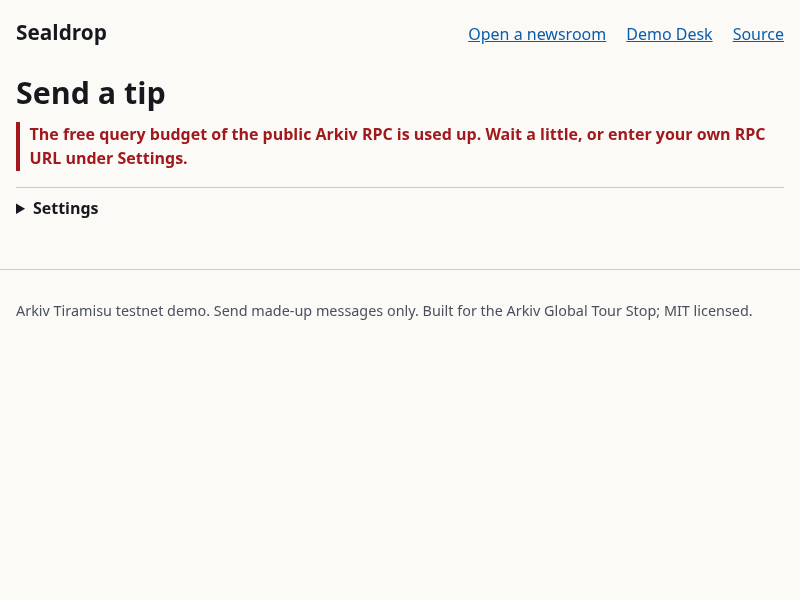
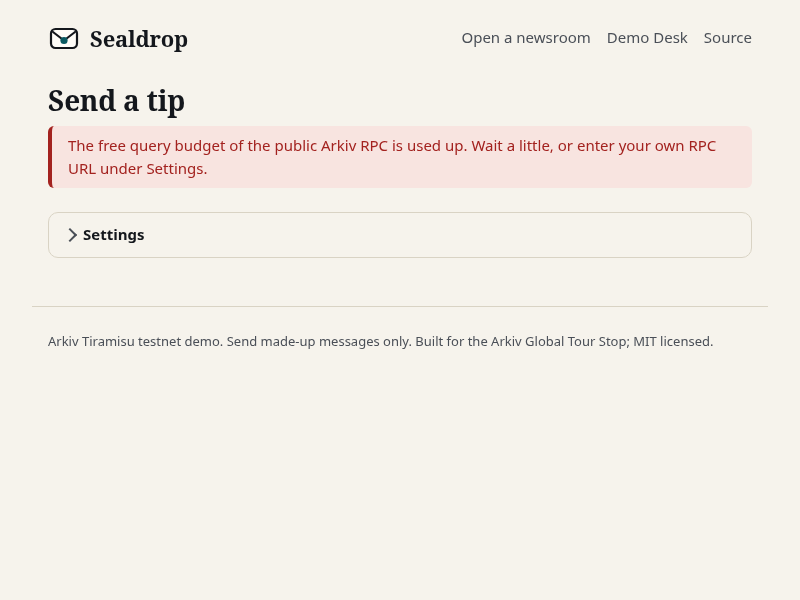
Design stage results: after screens, comparisons, audit logs, docs
- evidence/screens/design-after/ and design-before/: 72 PNGs each (18 states, including the over-limit state), plus 4 compare-*.png and 4 refreshed live-run screens
- evidence/design.md: contrast ratios, UI words changed, decisions, results (gate, smoke, Firefox, keyboard, bundle +5,743 B gzip), NOT VERIFIED list
- evidence/design-logs/: gate, Firefox, keyboard, QA tour, accessibility and contrast outputs
- evidence/design-scripts/shoot.mjs: state 18 (message over the size limit)
- README.md, evidence/qa.md, smoke.txt, smoke-subpath.txt: refreshed to the final runs

diff --git a/evidence/design.md b/evidence/design.md
@@ -86,7 +86,7 @@ Weights: 400 body, 600 labels and buttons, 700 headlines. Hex and byte counts us
 5. Verified facts get a teal "verified" chip (`Creator verified ✓`). Warnings and destructive controls use danger only.
 6. Headlines serif, UI sans, data mono. No more than three type sizes in any card.
 7. Cards never nest. Secondary blocks ("Got an inbox link?", the world panel, settings) are plain bordered blocks with muted headings.
-8. Keep every testid and structural selector used by `scripts/smoke.mts`, `evidence/qa-scripts/*`: see "Markup contract".
+8. Keep every testid and structural selector used by `scripts/smoke.ts`, `evidence/qa-scripts/*`: see "Markup contract".
 
 ## Components
 
@@ -111,23 +111,128 @@ Weights: 400 body, 600 labels and buttons, 700 headlines. Hex and byte counts us
 ## Markup contract (kept, so the smoke and QA scripts need no assertion changes)
 
 testids: message, send, tip-text, tip, inbox, create-inbox, live-status, send-result, status, create-newsroom, inbox-link, mode-wallet, mode-demo, route-notice, open-newsroom, open-desk, progress, export, renew, use-wallet, counter, balance, refresh, no-tips, tips, budget, inbox-name, inbox-desc.
-Structure: `.me dd a` (full address as textContent), `[data-testid=send-result] dd a` (0 = Tip entity, 1 = Transaction), the first `.result button` is "Send another", `button.danger`, `details.settings > summary`, `[role=alert], .status.error`, exactly one `a.button` on home, `main`, `h1` containing "anonymous tip line". Text: `Live: listening…` / `Reconnecting…` / `No tips yet.` / `free query budget` / `no demo sender key` / `No browser wallet found.` stay verbatim.
+Structure: `.me dd a` (full address as textContent), `[data-testid=send-result] dd a` (0 = Tip entity, 1 = Transaction), the first `.result button` is "Send another", `button.danger`, `details.settings > summary`, `[role=alert], .status.error`, exactly one `a.button` on home, `main`, `h1` containing "anonymous tip line". Text: `Live: listening…` / `Reconnecting…` (the chip word, then the sentence; the colon stays in the text for readers and scripts but is not drawn) / `No tips yet.` (the status line after a sweep; the empty-state card has new words, see "UI words changed") / `free query budget` / `no demo sender key` / `No browser wallet found.` stay verbatim.
 
 ## Contrast
 
-PLACEHOLDER-CONTRAST
+Token pairs, computed from the real `src/style.css` by `node evidence/design-scripts/contrast.mjs` (WCAG 2.x relative luminance; the script exits 1 if a pair is under its threshold or if the token block above drifts from the CSS; five pairs were also re-checked with a separate formula). Text needs 4.5:1; control borders, the focus ring and bar fills need 3:1. Every pair passes in both themes.
+
+| Pair | Used for | Light | Dark | Needs | Result |
+|---|---|---|---|---|---|
+| ink on paper | body text on the page | 16.21 | 15.86 | 4.5 | pass |
+| ink on surface | text in cards, inputs | 17.67 | 14.66 | 4.5 | pass |
+| ink on surface-2 | hex values, code | 14.94 | 13.30 | 4.5 | pass |
+| muted on paper | hints, labels, footer | 7.44 | 8.37 | 4.5 | pass |
+| muted on surface | hints in cards | 8.11 | 7.73 | 4.5 | pass |
+| muted on surface-2 | hints on inset areas | 6.86 | 7.01 | 4.5 | pass |
+| accent on paper | links, secondary buttons | 7.15 | 9.30 | 4.5 | pass |
+| accent on surface | links and buttons in cards | 7.80 | 8.59 | 4.5 | pass |
+| accent-hover on paper | link hover | 9.92 | 11.25 | 4.5 | pass |
+| accent-hover on surface | link hover in cards | 10.82 | 10.39 | 4.5 | pass |
+| accent on accent-soft | Live / verified chips | 6.46 | 7.44 | 4.5 | pass |
+| accent-fg on accent | primary button | 7.93 | 8.88 | 4.5 | pass |
+| accent-fg on accent-hover | primary button hover | 11.00 | 10.75 | 4.5 | pass |
+| danger on paper | warnings, destructive text | 6.75 | 9.62 | 4.5 | pass |
+| danger on surface | warnings in cards | 7.36 | 8.88 | 4.5 | pass |
+| danger on danger-soft | error status line, warn chip | 6.12 | 8.47 | 4.5 | pass |
+| line-strong on paper | control borders against the page | 3.57 | 4.31 | 3 | pass |
+| line-strong on surface | control borders against the field | 3.89 | 3.99 | 3 | pass |
+| focus on paper | focus ring on the page | 7.15 | 9.30 | 3 | pass |
+| focus on surface | focus ring in cards | 7.80 | 8.59 | 3 | pass |
+| accent on track | bar fill against its track | 5.79 | 6.41 | 3 | pass |
+
+Rendered check (not only tokens): `A11Y=1 node evidence/design-scripts/shoot.mjs <mock dist> <out dir>` reads the computed colour of every visible text element in all 18 states, in both themes, over its real background. 764 text elements per theme; lowest ratio 6.12 in light (the error status line on its pink ground) and 6.70 in dark (a hint in the send form); 0 below 4.5. The flow diagram's text is ink and muted on surface (17.67 / 8.11 light, 14.66 / 7.73 dark); its outlines use line-strong or accent, its arrows muted. Not measured: disabled buttons (WCAG exempts them; they exist only while a send is running) and Windows forced-colors mode.
+
+## Keyboard, focus, labels, language, titles
+
+- Focus: a 3 px ring (`outline: 3px solid var(--focus); outline-offset: 2px`) on every link, button, input and summary; ring contrast is in the table above. The audit (`auditPage` from the QA scripts, desktop, light) found 0 Tab stops without a ring and 0 unlabeled or unnamed fields in all 18 states. A heading that receives focus from script (the success heading after a send) is not a Tab stop and shows no ring.
+- Page language and titles: `lang="en"` on every page; titles `Sealdrop: an anonymous tip line with no server`, `Newsroom console: Sealdrop`, `Send a tip: Sealdrop`; exactly one `h1` and one `main` per state.
+- Keyboard path through the 60-second flow, `node evidence/design-scripts/keyboard.mjs <mock dist> chromium|firefox` (mock-backed, production CSP, 0 RPC; ALL PASS in Chromium and in Firefox):
+  1. Home: "Start: open a newsroom" is the 5th Tab stop (brand, three nav links, Start); Enter opens the newsroom page.
+  2. After the page change the first Tab lands in the page content ("Create a throwaway newsroom"), not back in the header (the browsers keep the sequential focus position where the removed link was); Enter creates the newsroom.
+  3. "Create the inbox" is the 8th Tab stop on the console (address, "Copy newsroom address", faucet, "Export key file", "Forget this newsroom", Name, Description, then the button); Enter creates it; once the inbox exists, "Copy inbox link" is 2 Tab stops away.
+  4. Send page: the message box is the 11th Tab stop (4 header links, then the creator, owner and inbox entity values, each followed by its copy button). After typing, the next Tab stop is the lifetime group (14 days preselected); ArrowRight and ArrowLeft move it 14 to 30 to 7 days; two more Tab stops reach "Seal and send" (the "Shared demo key" radio, then the button); Enter sends.
+  5. After the send, focus moves to the heading "Sealed and sent ✓" (a screen reader announces it); the next Tab stop is "Send another"; Enter returns to the message box with focus in it.
+  6. 0 console or page errors; the bar fills set through CSSOM take effect under the production CSP (the receipt bar fills its track in both browsers).
+- Not built: a "skip to the message" shortcut on the send page (11 Tab stops before the message box). The creator, owner and entity values are the content a careful source wants to read first, so this was left as is.
 
 ## Decisions
 
 - Why the creator address is shown in full on the send page: the "Creator verified ✓" chip says the app checked the link against Arkiv, but a source may also compare the address with one the newsroom published elsewhere; truncation would remove that option. All other hex values are truncated.
 - Why `div` bars and not `<meter>`: identical result in Chromium and Firefox without vendor pseudo-elements; the bars are decorative and the text beside them is the accessible value.
 - Why a radiogroup for the tip lifetime instead of the `<select>`: four choices (1, 7, 14, 30 days) are better as visible options, and the default (14 days) stays pre-selected. It is a `div[role=radiogroup]`, not a `fieldset`, so the first `fieldset` on the page is still "Send with".
+- `src/crypto.ts` gains one exported function, `bucketFor(messageBytes)`; `pad()` now calls it and the size meter on the send page reads it, so the meter and the real padding cannot disagree. Behaviour is unchanged (the 23 unit tests pass without edits). `src/arkiv.ts`, `src/codec.ts` and `src/config.ts` are untouched.
 - Design screens were produced with a stubbed data layer (`evidence/design-scripts/`: the page code is the real build, only `src/arkiv.ts` is swapped for a fixed-data module, time is frozen, zero RPC queries). Real-network screens are regenerated by the QA smoke scripts. `src/arkiv.ts` is untouched, so every `#L` anchor in SUBMISSION.md is unchanged.
 
 ## UI words changed
 
-PLACEHOLDER-WORDS
+For the video stage: these are the words on screen after the design stage (state ids refer to `evidence/screens/design-after/<id>-<desktop|mobile>-<light|dark>.png`). Everything not listed is unchanged word for word: the visible text of all 18 states was diffed before and after (`TEXT=1 node evidence/design-scripts/shoot.mjs`), apart from the hex values, which are now shortened, and the footer line "Public RPC: this tab has made N queries ..." (an unchanged one-second timer in `src/main.ts` writes it, so a capture taken in the first second misses it). README.md, SUBMISSION.md, HANDOFF.md, `arkiv/*.md` and the video brief quote none of the changed strings (the strings they do quote, "WARNING: the owner is not the creator" and "Reconnecting", are unchanged), so none of them needed a wording edit; only the smoke timings were refreshed (see Results).
+
+| Where (state ids) | Before | After |
+|---|---|---|
+| Home (01, 02): under the headline | nothing | value line: "Sealed in the browser. Stored on Arkiv. Expires on the date the source picks." |
+| Home (01, 02): new picture | nothing | flow diagram, four boxes left to right: "Source's browser: writes and seals the tip", "Sealed box: only the newsroom's key opens it", "Arkiv: gone on the expiry date the source picks", "Newsroom's browser: opens it with its own key" (below 640 px the boxes stack with one-line captions). Screen readers get one sentence: "How a tip travels: the source's browser writes and seals it, the sealed box is stored on Arkiv until its expiry date, and the newsroom's browser opens it with its own key." |
+| Home (01, 02): last line | "Short on time? Send a made-up tip to the Demo Desk or read the source code." | same words; the two links are quiet text links; the final period is gone |
+| Console, before the inbox exists (04, 08) | "Live updates start once the inbox exists." | same words; "Live updates" is drawn as a chip |
+| Console, empty state (04, 05, 08) | "No tips yet. Open your inbox link in another tab and send one." | "Waiting for tips." and "Share your inbox link. To try it yourself, open it in another tab and send one." ("No tips yet." is still the status line after a Refresh) |
+| Console, inbox card (05 to 07) | button "Copy" | button "Copy inbox link" (filled: the one primary action once the inbox exists) |
+| Console, live feed (05, 06) | "Live: listening for new tips on a WebSocket. This page does not poll." | chip "Live" (teal, pulsing dot) followed by "listening for new tips on a WebSocket. This page does not poll." (the colon is kept for screen readers and scripts, not drawn) |
+| Console, dropped connection (07) | "Reconnecting: the live connection dropped and is being retried. Tips already on Arkiv are safe; Refresh reads the inbox now." | chip "Reconnecting" followed by "the live connection dropped and is being retried. Tips already on Arkiv are safe; Refresh reads the inbox now." |
+| Console, lease (05 to 07) | "alive for 6 d 12 h (until 2026-10-23 21:30 UTC). It expires after 7 days; opening this console renews it." with "Renew now" in the sentence | same sentence with a bar under it; the "Renew now" button sits below |
+| Console, tip card (06, 07) | "2026-10-17 09:27 UTC . 1.1 KiB sealed . deletes itself in 14 d 0 h" and a badge "owned by you" | the time; chip "1.1 KiB sealed (1 KiB bucket)"; chip "Expires in 14 d 0 h" with a bar (the chip turns red under one day); the line "owned by you" or "sender still owns it" |
+| Send page (10 to 14, 17, 18): inbox card | nothing | chip "Creator verified ✓" at the top; "(matches the link you opened)" stays under the creator address |
+| Send page (10 to 13, 17, 18): owner line | the owner address only | the owner address plus chip "Owner is the creator ✓"; the warning "WARNING: the owner is not the creator. Be careful." is unchanged (14) |
+| Send page (10, 11): size meter | "617 / 65,532 bytes . Padded to 1, 4, 16 or 64 KiB before sealing, so the length reveals little." | "617 / 65,532 bytes", chip "Padded to 1.0 KiB" (4.0, 16.0 or 64.0 KiB for longer messages) with a bar, then "Padded to 1, 4, 16 or 64 KiB before sealing, so the length reveals little." |
+| Send page, over the limit (18) | the counter "75,417 / 65,532 bytes" on one line with the static hint "Padded to 1, 4, 16 or 64 KiB before sealing, ...", nothing marks the message as too long until "Seal and send" is pressed | a red chip "Too long" beside the counter and a full bar; the hint and the refusal "The message is too long (limit 65532 bytes)." (shown on pressing "Seal and send") are unchanged |
+| Send page (10, 11): lifetime | "Delete it after" with a drop-down list (1 day, 7 days, 14 days, 30 days) | "Delete it after" with four visible choices "1 day", "7 days", "14 days", "30 days" (radio buttons, "14 days" preselected); the hint "You choose the Entity Expiration. The newsroom can burn it earlier or keep it longer." is unchanged |
+| Send page, after sending (13) | status line "Sent.", heading "Sent", "This is everything Arkiv stores about it:" with the full list, and the "Seal and send" button greyed out | one card: heading "Sealed and sent ✓" with the button "Send another"; "Your message was sealed in this browser and handed to the inbox owner. Only the newsroom's decryption key opens it." is unchanged; the receipt shows Tip entity, Transaction and Expires; "This is everything Arkiv stores about it:" with $creator, $owner, Attributes and Payload moved into a closed disclosure "What Arkiv stores"; no "Sent." line; the form is hidden until "Send another" |
+| Every page: 0x values | the full value as a blue link | shortened in the middle (`0x19E7…ff2A`: 6 leading characters, 4 trailing), mono, with a copy button; the full value is in the tooltip and the accessible name. The creator address on the send page stays complete (two lines). |
+| Header (every page) | the word "Sealdrop" | the word "Sealdrop" with a small envelope mark; the nav words "Open a newsroom", "Demo Desk", "Source" are unchanged |
+
+Unchanged on purpose (so captions can keep using them): the headlines "An anonymous tip line with no server to seize", "Newsroom console", "Tips" and "Send a tip"; the lead paragraph; the three 60-second steps and the button "Start: open a newsroom"; "Got an inbox link?"; "Create a throwaway newsroom", "Create the inbox", "Export key file", "Forget this newsroom", "Refresh (full sweep)", "Keep 30 more days", "Burn now", "Seal and send", "Send another"; the sentence "Everyone in demo mode shares one public testnet address, so it cannot identify you. ..."; "What can anyone see on Arkiv for this inbox?", "Queries this page runs", "Settings"; the footer.
 
 ## Results
 
-PLACEHOLDER-RESULTS
+Run on the final code (nothing under `src/` changed after the last gate run). Local commits only, nothing pushed. Public RPC use for the whole stage: 63 queries (6,300 units) in about 30 minutes, under the 70 queries/hour limit (ledger: smoke 10, final smoke 10, subpath smoke 10, Firefox 9, QA tour 22, unfunded-key run 2). All message text is synthetic.
+
+| Check | Result | Where |
+|---|---|---|
+| Gate: `node scripts/secret-scan.mjs && npm test && npm run build && npm run check:bundle` | exit 0: secret scan clean, 3 test files with 23 tests passed, build ok, bundle check all rules pass | `design-logs/gate.txt` |
+| Smoke, judge path, Chromium, live Tiramisu testnet | 13 PASS, 20.1 s from opening the newsroom to the decrypted live tip | `smoke.txt` |
+| Smoke served under the `/sealdrop/` subpath | 13 PASS, 19.5 s | `smoke-subpath.txt` |
+| Firefox 153, judge path, production CSP | 8 PASS, 30.6 s, 9 queries, 0 console errors | `design-logs/ff-judge.out` |
+| Mobile 390x844, DPR 2, touch, live testnet (QA tour, section C) | no horizontal overflow in 6 states; every button at least 44 px high | `design-logs/e-tour.out` |
+| QA tour on the live testnet: error states E1 to E10, a 64 KiB tip, Hebrew + emoji, injected 429, wallet declines, unfunded demo key | 21 PASS, 0 FAIL (19 in `e-tour.out`, 2 in `e-tour-e8.out`) | `design-logs/e-tour*.out` |
+| Keyboard path through the 60-second flow (`keyboard.mjs`) | ALL PASS in Chromium and in Firefox; every Tab stop shows a ring | `design-logs/keyboard-*.txt` |
+| Accessibility audit, 18 states, light desktop | `lang="en"`, one `h1`, one `main`, a title, 0 unlabeled or unnamed fields, 0 Tab stops without a ring; live testnet console with 20 tips: 121 Tab stops, 0 without a ring | `design-logs/a11y-audit.txt`, `e-tour.out` |
+| Contrast, both themes | 21 token pairs pass (table above); rendered scan of 764 text elements per theme: lowest 6.12 light, 6.70 dark, 0 below AA | `design-logs/contrast.out`, `design-logs/a11y-audit.txt` |
+| Console and page errors | 0 in every run above (the injected 429 of E9 shows up as a failed resource load in the browser log; the tour does not count that deliberate fault) | all logs |
+| New runtime dependencies | none (`package.json` and `package-lock.json` are unchanged) | `git diff` |
+
+Bundle, gzip -9 per file of `dist/` (same `.env.local`, same Vite; `design-logs/bundle-sizes.txt`):
+
+| File | Before (5f83e23) | After | Growth |
+|---|---|---|---|
+| `index.js` | 126,769 B | 129,071 B | +2,302 B |
+| `index.css` | 1,407 B | 4,492 B | +3,085 B |
+| `index.html` | 783 B | 1,140 B | +357 B |
+| `ccip.js`, `native.js` | 1,520 B | 1,519 B | -1 B |
+| Total | 130,479 B | 136,222 B | +5,743 B (4.4 %), limit 10,000 B |
+
+Screens:
+
+- `evidence/screens/design-before/` and `design-after/`: 72 PNGs each (18 states, desktop 1280x800 and mobile 390x844, light and dark), taken by `shoot.mjs` from the 5f83e23 build and from the final tree with the same stub data and zero RPC queries. For the after set the script reports 0 horizontal overflows and 0 console errors in all 72 captures. State 18 (`18-send-toolong`) is the only state over the size limit.
+- `evidence/screens/compare-home.png`, `compare-newsroom-tips.png`, `compare-send-typed.png`, `compare-send-sent.png`: four side-by-side images, before on the left, after on the right.
+- Refreshed from the live smoke run: `demo-desk-sent.png`, `newsroom-live-tip.png`, `rate-limited-send.png`, `source-sent.png`.
+- Not refreshed: the other live-testnet screens from the QA stage (`desktop-*`, `mobile-*`, `home-before-*`, `home-after-*`, `hebrew-rtl-before-after.png`, `wallet-*`) show the earlier design; `evidence/qa.md` cites them as QA evidence. This stage's live-testnet tour screens stayed in scratch space.
+
+Documents: `README.md` (the smoke paragraph now quotes the 20.1 s run in `smoke.txt`) and `evidence/qa.md` (two parentheticals and one note saying that the smoke files hold the design-stage re-runs) are tracked. `HANDOFF.md` and `SUBMISSION.md` are gitignored and were edited in place (smoke timings only). No claim in README.md, SUBMISSION.md or the video brief quotes a changed UI word (see "UI words changed").
+
+Reproduce: `bash evidence/design-scripts/build-mock.sh HEAD|worktree <out>` builds the stub-backed app; `node evidence/design-scripts/shoot.mjs <dist> <out> [ids]` takes the screens (`A11Y=1` adds the label, focus-ring and rendered-contrast audit, `TEXT=1` writes the visible words); `node evidence/design-scripts/keyboard.mjs <dist> chromium|firefox`; `node evidence/design-scripts/contrast.mjs` (exits 1 on a failing pair or when the token block above drifts from `src/style.css`).
+
+NOT VERIFIED:
+
+- Motion (the pulsing dot on "Live", bar and chip transitions) was not watched in a recording. Every screenshot is taken with `prefers-reduced-motion: reduce`; the motion lives in one reduced-motion block and short (120 and 200 ms) transitions in `src/style.css`.
+- No screen reader was run. Labels, accessible names, headings, `lang`, titles and the flow diagram's `role="img"` text were checked programmatically only.
+- Safari and WebKit, Windows forced-colors mode and a real phone were not tested; "mobile" is Chromium emulation (390x844, DPR 2, touch). Firefox was tested on desktop only.
+- Contrast of disabled buttons (WCAG exempts them).

diff --git a/evidence/qa.md b/evidence/qa.md
@@ -114,7 +114,7 @@ for `sealdrop`, `vitest` 5.0.5, `puppeteer-core` 25.14.0 and `@puppeteer/browser
   the WebSocket (`data-source=live`), wallet mode with a second live tip, a look-alike link, the Demo Desk found and read with
   `ops desk-read`, and 0 console or page errors in the three tabs. Judge path total 20.4 s. The same checks served under
   `/sealdrop/` (a `BASE_PATH=/sealdrop/` build, how GitHub Pages serves a project page): 13 of 13, 19.2 s
-  ([smoke-subpath.txt](smoke-subpath.txt)). Both runs: `src/`, `scripts/` and `test/` as in `c797c65`.
+  ([smoke-subpath.txt](smoke-subpath.txt)). Both runs: `src/`, `scripts/` and `test/` as in `c797c65`. The design stage re-ran both on its final code and overwrote smoke.txt and smoke-subpath.txt with those runs (2026-10-16, 23:53 and 23:54 UTC: 13 of 13 each, judge path 20.1 s and 19.5 s); the figures above are the QA runs.
 * Firefox 153.4.0, the judge path against `dist/` with the production CSP and the public RPC ([qa-logs/ff-judge.out](qa-logs/ff-judge.out)):
   home has one primary button; throwaway newsroom funded and inbox created in 15.9 s; tip sealed and sent in 5.6 s; the
   newsroom tab showed it decrypted, with no refresh, through the WebSocket (`data-source=live`); Demo Desk found and a tip
@@ -276,8 +276,8 @@ The last code change (`src/`, `scripts/`, `test/`) is `387a52a`; everything afte
 | `npm test` | 3 files, 23 tests pass |
 | `npm run build` | exit 0; `index-BHoWWcl2.js` 410.41 kB, 128.65 kB gzip, the same content-hashed files the browser runs used |
 | `npm run check:bundle` | all rules pass (the demo key is in the bundle by design; the funder key, desk key and desk box secret are not; no `.env` file in `dist/`) |
-| `npm run smoke` (Chromium, live testnet) | 13 of 13, judge path 20.4 s, run at 21:13 UTC after the last code change ([smoke.txt](smoke.txt)) |
-| the same smoke served under `/sealdrop/` | 13 of 13, 19.2 s ([smoke-subpath.txt](smoke-subpath.txt)); a rebuilt `BASE_PATH=/sealdrop/` build is byte-identical to the copy it served |
+| `npm run smoke` (Chromium, live testnet) | 13 of 13, judge path 20.4 s, run at 21:13 UTC after the last code change ([smoke.txt](smoke.txt)) (the QA run; the file now holds the design-stage re-run, see section C) |
+| the same smoke served under `/sealdrop/` | 13 of 13, 19.2 s ([smoke-subpath.txt](smoke-subpath.txt)); a rebuilt `BASE_PATH=/sealdrop/` build is byte-identical to the copy it served (the QA run; the file now holds the design-stage re-run) |
 | `npm run integration` (live testnet) | 30 checks passed, 0 failed, 59.2 s, run at 22:01 UTC at `c362b24`, 19 costed queries (1,900 units) ([integration.txt](integration.txt)). Two concurrent sends from the shared demo key needed 2 retries (a failure before broadcast, then a revert on chain, then the send landed): the known concurrent-batch behaviour of friction F6, which `sendTip` handles. |
 | `src/arkiv.ts` changed in this pass (`61a8be2`, `53387e4`), so the SUBMISSION.md anchors were recomputed | `anchors.mjs`: all 12 `src/arkiv.ts#L` links resolve to the declaration of the symbol they name ([qa-logs/anchors.out](qa-logs/anchors.out)); SUBMISSION.md is git-ignored, so this is not a commit. Re-run it if `src/arkiv.ts` changes before publishing. |
 | fresh clone | section B; Node 24.18.0 at `c362b24`, all steps exit 0, all browser checks pass |

diff --git a/README.md b/README.md
@@ -51,8 +51,8 @@ of this repository or the build. Open the entity link on the Data Explorer to se
 three attributes.
 
 Measured on 2026-10-16 by a headless Chromium run against the built site and the live testnet ([evidence/smoke.txt](evidence/smoke.txt)):
-creating the newsroom takes under a second (no network), creating the inbox 15.0 s (two transactions and the first look-up),
-and the decrypted tip appeared in the newsroom tab 3.1 s after Send was clicked. The whole path took 20.4 s.
+creating the newsroom takes under a second (no network), creating the inbox 14.5 s (two transactions and the first look-up),
+and the decrypted tip appeared in the newsroom tab 3.7 s after Send was clicked. The whole path took 20.1 s.
 
 ## What is on Arkiv, and what is not
 
